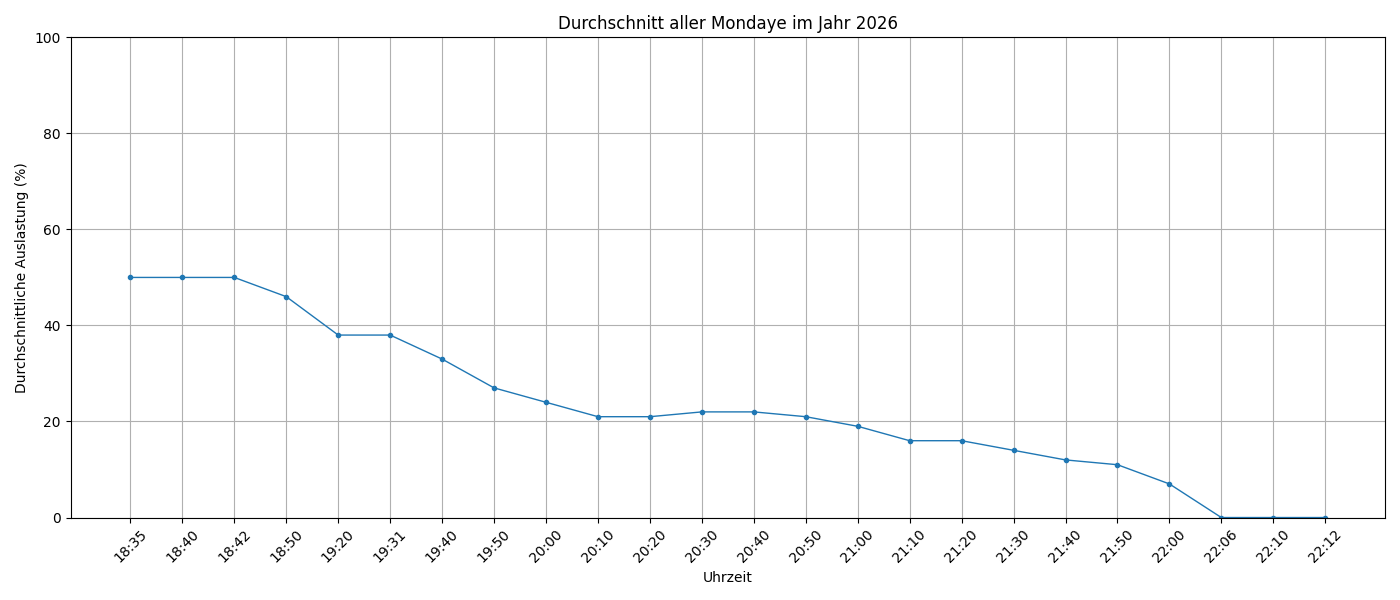
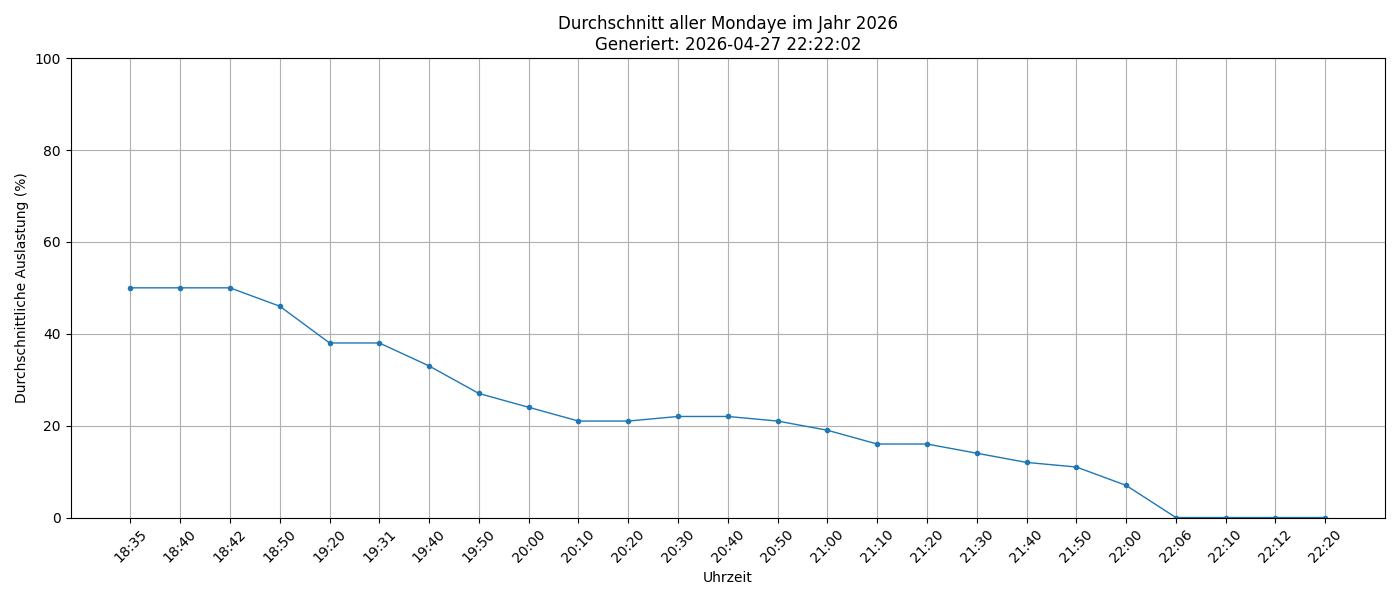
Update gym graphs

diff --git a/src/generate_graphs.py b/src/generate_graphs.py
@@ -63,7 +63,8 @@ def save_line_graph(
     plt.figure(figsize=(14, 6))
     plt.plot(x, y, marker=".", linewidth=1)
 
-    plt.title(title)
+    generated_at = pd.Timestamp.now().strftime("%Y-%m-%d %H:%M:%S")
+    plt.title(f"{title}\nGeneriert: {generated_at}")
     plt.xlabel(xlabel)
     plt.ylabel(ylabel)
     plt.ylim(0, 100)